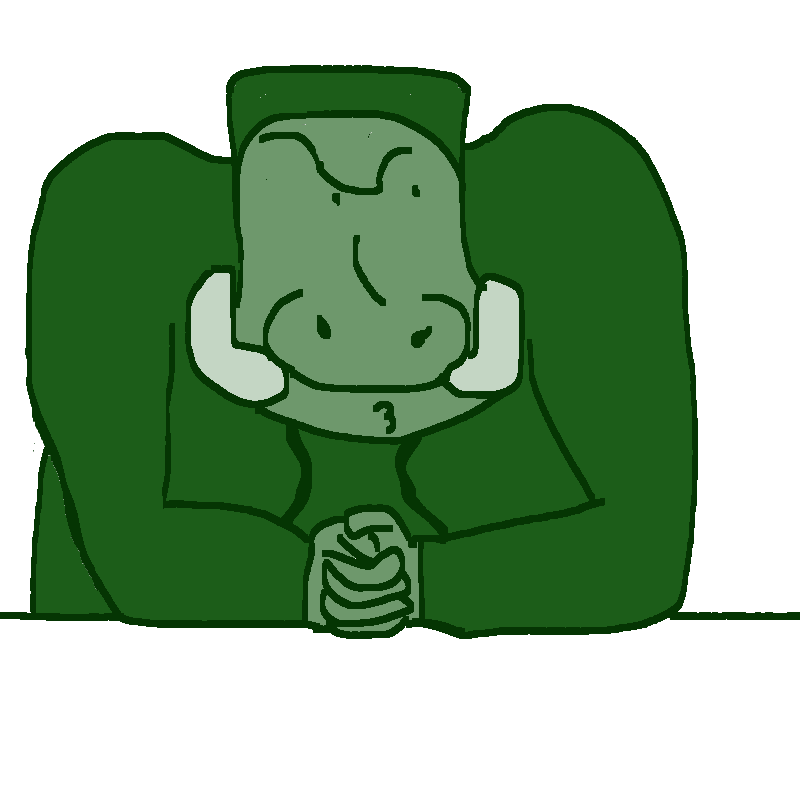
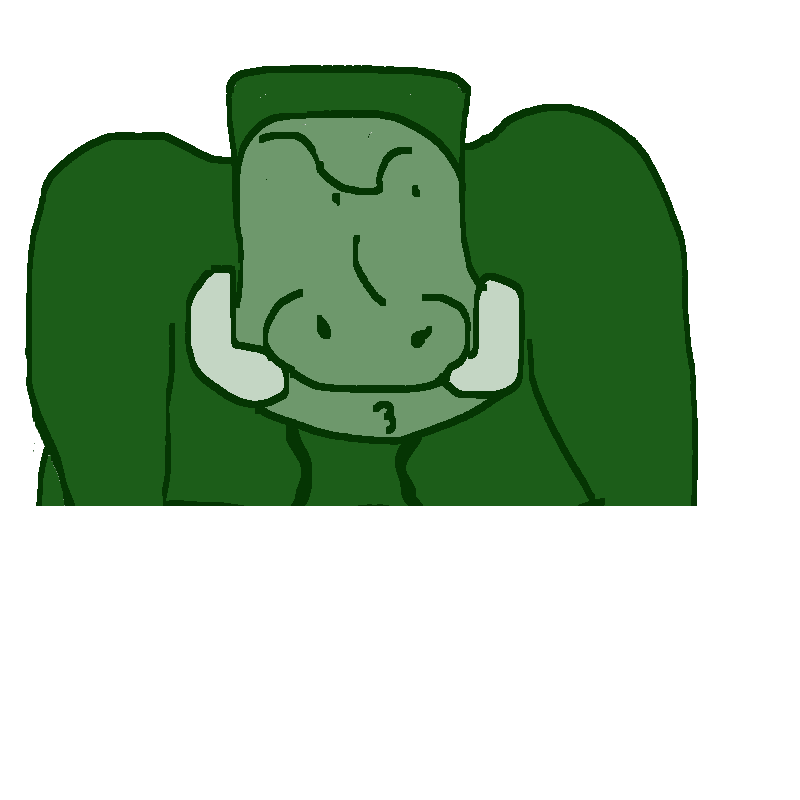
I forewent the strange file structure. It is sad that the images are not partitioned anymore, but now the code works and I can move on. I got the warthog and bellows captains some dialogue. The only thing left for salvage.js is to plan the resurfacing animation and the add the little cranking microg

Changed region(s): [[0.0, 0.625, 1.0, 0.8125]]

diff --git a/salvage.js b/salvage.js
@@ -20,10 +20,12 @@ console.log("junk accounting: Slot3: " + junk[3].name + ", " + junk[3].look + ",
 if(day){
     console.log("Sun alert!");
     captain.src = "images/mines/Bellows.png";
+    document.getElementById("Operhand").src = "images/mines/BellowHand.png";
 }
 else{
     console.log("Sun alertn't.");
-    captain.src = "images/mines/Warthog.png";
+    captain.src = "images/mines/WarthogCounsel.png";
+    document.getElementById("Operhand").src = "images/mines/WarthogHands.png";
 }
 let busy = false;       //pressing 's' or 'w' while busy will have no effect!
 
@@ -49,16 +51,11 @@ let appValue = [JSON.parse(localStorage.getItem('curios'))[0].look, JSON.parse(l
 let trueValue = [JSON.parse(localStorage.getItem('curios'))[0].worth, JSON.parse(localStorage.getItem('curios'))[1].worth, JSON.parse(localStorage.getItem('curios'))[2].worth, JSON.parse(localStorage.getItem('curios'))[3].worth];
 let bunker = false;
 
-//Pouch4.src ? "images/curios/valuable/" + loot[0] + ".png" : "images/curios/" + loot[0] + ".png";
-Pouch3.src ? "images/curios/valuable/" + loot[1] + ".png" : "images/curios/" + loot[1] + ".png";
-Pouch2.src ? "images/curios/valuable/" + loot[2] + ".png" : "images/curios/" + loot[2] + ".png";
-Pouch1.src ? "images/curios/valuable/" + loot[3] + ".png" : "images/curios/" + loot[3] + ".png";
-try{
-    Pouch4.src = "images/curios/valuable/" + loot[0] + ".png";
-}
-catch(e){
-    Pouch4.src = "images/curios/" + loot[0] + ".png";
-}
+Pouch4.src = "images/curios/" + loot[0] + ".png";
+Pouch3.src = "images/curios/" + loot[1] + ".png";
+Pouch2.src = "images/curios/" + loot[2] + ".png";
+Pouch1.src = "images/curios/" + loot[3] + ".png";
+
 
 function nextLayer(a, b, c, d){
     //pop the top layer, then roll for the next layer and push the result up from the bottom.
@@ -311,27 +308,19 @@ function valuation(a, b, c, d){
         if(gold >= 85){
             loot[i] = treasures[g];
             console.log("treasure assigned!");
-            if(i == 3)
-                Pouch4.src = "images/curios/valuable/" + loot[i] + ".png";
-            else if(i == 2)
-                Pouch3.src = "images/curios/valuable/" + loot[i] + ".png";
-            else if(i == 1)
-                Pouch2.src = "images/curios/valuable/" + loot[i] + ".png";
-            else
-                Pouch1.src = "images/curios/valuable/" + loot[i] + ".png";
         }
         else{
             loot[i] = curios[g];
             console.log("curio assigned!");
-            if(i == 3)
-                Pouch4.src = "images/curios/" + loot[i] + ".png";
-            else if(i == 2)
-                Pouch3.src = "images/curios/" + loot[i] + ".png";
-            else if(i == 1)
-                Pouch2.src = "images/curios/" + loot[i] + ".png";
-            else
-                Pouch1.src = "images/curios/" + loot[i] + ".png";
         }
+        if(i == 3)
+            Pouch4.src = "images/curios/" + loot[i] + ".png";
+        else if(i == 2)
+            Pouch3.src = "images/curios/" + loot[i] + ".png";
+        else if(i == 1)
+            Pouch2.src = "images/curios/" + loot[i] + ".png";
+        else
+            Pouch1.src = "images/curios/" + loot[i] + ".png";
         appValue[i] = Math.floor(Math.random() * 20);
         if(appValue[i] <= 0)
             appValue[i] = 1;
@@ -386,8 +375,8 @@ bobber();
 function bobber(){
     if(bob){
         document.getElementById("Boat").style.top = (6 + Math.sin(bobbing)) + "%";
-        document.getElementById("Operator").style.top = (24 + Math.sin(bobbing)) + "%";
-        document.getElementById("Operhand").style.top = (24 + Math.sin(bobbing)) + "%";
+        document.getElementById("Operator").style.top = (25 + Math.sin(bobbing)) + "%";
+        document.getElementById("Operhand").style.top = (25 + Math.sin(bobbing)) + "%";
         document.getElementById("Crank").style.top = (cranky + Math.sin(bobbing)) + "%";
         bobbing += (Math.PI / 4);
         //console.log("bobbing: " + bobbing + ", and sin: " + Math.sin(bobbing));
@@ -397,69 +386,92 @@ function bobber(){
     }
 }
 
-let talk = 0;        //1 = talking, 2 = cooldown, 0 = available to talk.
+let consult = 0;
+let talk = false;        //1 = talking, 2 = cooldown, 0 = available to talk.
 captain.addEventListener("click", ()=>{
     console.log("you clicked the Captain");
-    if(talk == 0){
+    if(!talk){
+        talk = true;
+        document.getElementById("Talky").style.display = "block";
         if(day){
+            document.getElementById("Talky").innerHTML="<p>" + bellowTalk[consult] + "</p>";
             console.log("Bellows talkin here!");
             bellowTalky();
         }
         else{
-            hogTalky();
+            document.getElementById("Talky").innerHTML="<p>" + wartTalk[consult] + "</p>";
             console.log("Warthog talkin here!");
+            hogTalky();
         }
-        talk = 1;
     }
     else{
-        talk = 2;
+        talk = false;
+        document.getElementById("Talky").innerHTML="<p></p>";
+        document.getElementById("Talky").style.display = "none";
+        consult ++;
+        if(consult > 3)
+            consult = 0;
         console.log("Diplomacy has failed...");
         setTimeout(() =>{
-            talk = 0;
+            talk = false;
             if(day)
                 captain.src = "images/mines/Bellows.png";
             else
                 captain.src = "images/mines/Warthog.png";
             console.log("It seems relations have changed.");
-        }, 100);
+        }, 400);
     }
     
 });
 function bellowTalky(){
     console.log("Bellows talkin here!");
-    if(talk == 1){
-        captain.src = "images/mines/BellowsChange.png";
+    captain.src = "images/mines/BellowsFlip.png";
+    setTimeout(() =>{
+        captain.src = "images/mines/BellowsBack.png";
         setTimeout(() =>{
             captain.src = "images/mines/BellowsFlip.png";
             setTimeout(() =>{
-                captain.src = "images/mines/BellowsBack.png";
-                setTimeout(() =>{
-                    captain.src = "images/mines/BellowsFlip.png";
+                if(talk){
+                    captain.src = "images/mines/BellowsChange.png";
                     setTimeout(() =>{
-                        if(talk == 1)
-                            bellowTalky();
+                        bellowTalky();
                     }, 500);
-                }, 500);
+                }
+                else
+                    captain.src = "images/mines/Bellows.png";
             }, 500);
         }, 500);
-    }
+    }, 500);
 }
 function hogTalky(){
     captain.src = "images/mines/WarthogLeft.png";
         setTimeout(() =>{
-            captain.src = "images/mines/Warthog.png";
+            captain.src = "images/mines/WarthogCounsel.png";
             setTimeout(() =>{
                 captain.src = "images/mines/WarthogRight.png";
                 setTimeout(() =>{
-                    captain.src = "images/mines/Warthog.png";
+                    captain.src = "images/mines/WarthogCounsel.png";
                     setTimeout(() =>{
-                        if(talk == 1)
+                        if(talk)
                             hogTalky();
                     }, 500);
                 }, 500);
             }, 500);
         }, 500);
 }
+
+let bellowTalk = [
+    "While drilling, press the 's' key to bore down another layer. Press the 'w' key to finish and cash out for the session. Press Spacebar to begin.",
+    "Of the five layers on screen, the bottom four are what you can extract. Expect one Curio for each of the four layers.",
+    "Try to keep a layer of Volcanic Rock in the bunch. It preserves things well I hear. Even regular Rock can yield a Geode!",
+    "Fossils beget more Fossils. Rocks normally lower salvage value, except for Fossils!"
+];
+let wartTalk = [
+    "Press Spacebar to dive down, and then press 's' to drill down! Press 'w' to end your session and take your loot.",
+    "This is a risk game: Water and Rock hurt the value of the cool stuff you can find, but Water is pretty unlikely usually...",
+    "If you press 'w' too soon, you'll salvage Water and Rock, which is no good. You're better off picking up some Driftwood.",
+    "If you pierce through a Bunker, there's a huge chance for Loot! If the four layers are all loot and/or Bunker, the value is very high."
+];
 
 ///Map
 

diff --git a/mining.css b/mining.css
@@ -1,6 +1,6 @@
 #Operator{
     position: absolute;
-    top: 24%;
+    top: 25%;
     left: 40%;
     width: 20%;
     height: 40%;
@@ -8,12 +8,34 @@
 }
 #Operhand{
     position: absolute;
-    top: 24%;
+    top: 25%;
     left: 40%;
     width: 20%;
     height: 40%;
     z-index: 2;
-    cursor: pointer;
+    pointer-events: none;
+}
+#Talky{
+    position: absolute;
+    left: 30%;
+    top: 12%;
+    width: 16%;
+    height: 18%;
+    border-radius: 10px;
+    border: solid 4px #181b17;
+    background-color: #b2caaa;
+    display: block;
+    z-index: 8;
+    pointer-events: none;
+}
+#Talky p{
+    position: relative;
+    left: 3%;
+    font-size: 20px;
+    font-weight: bold;
+    text-decoration-color: #1a2516;
+    z-index: 9;
+    pointer-events: none;
 }
 #Boat{
     position: absolute;